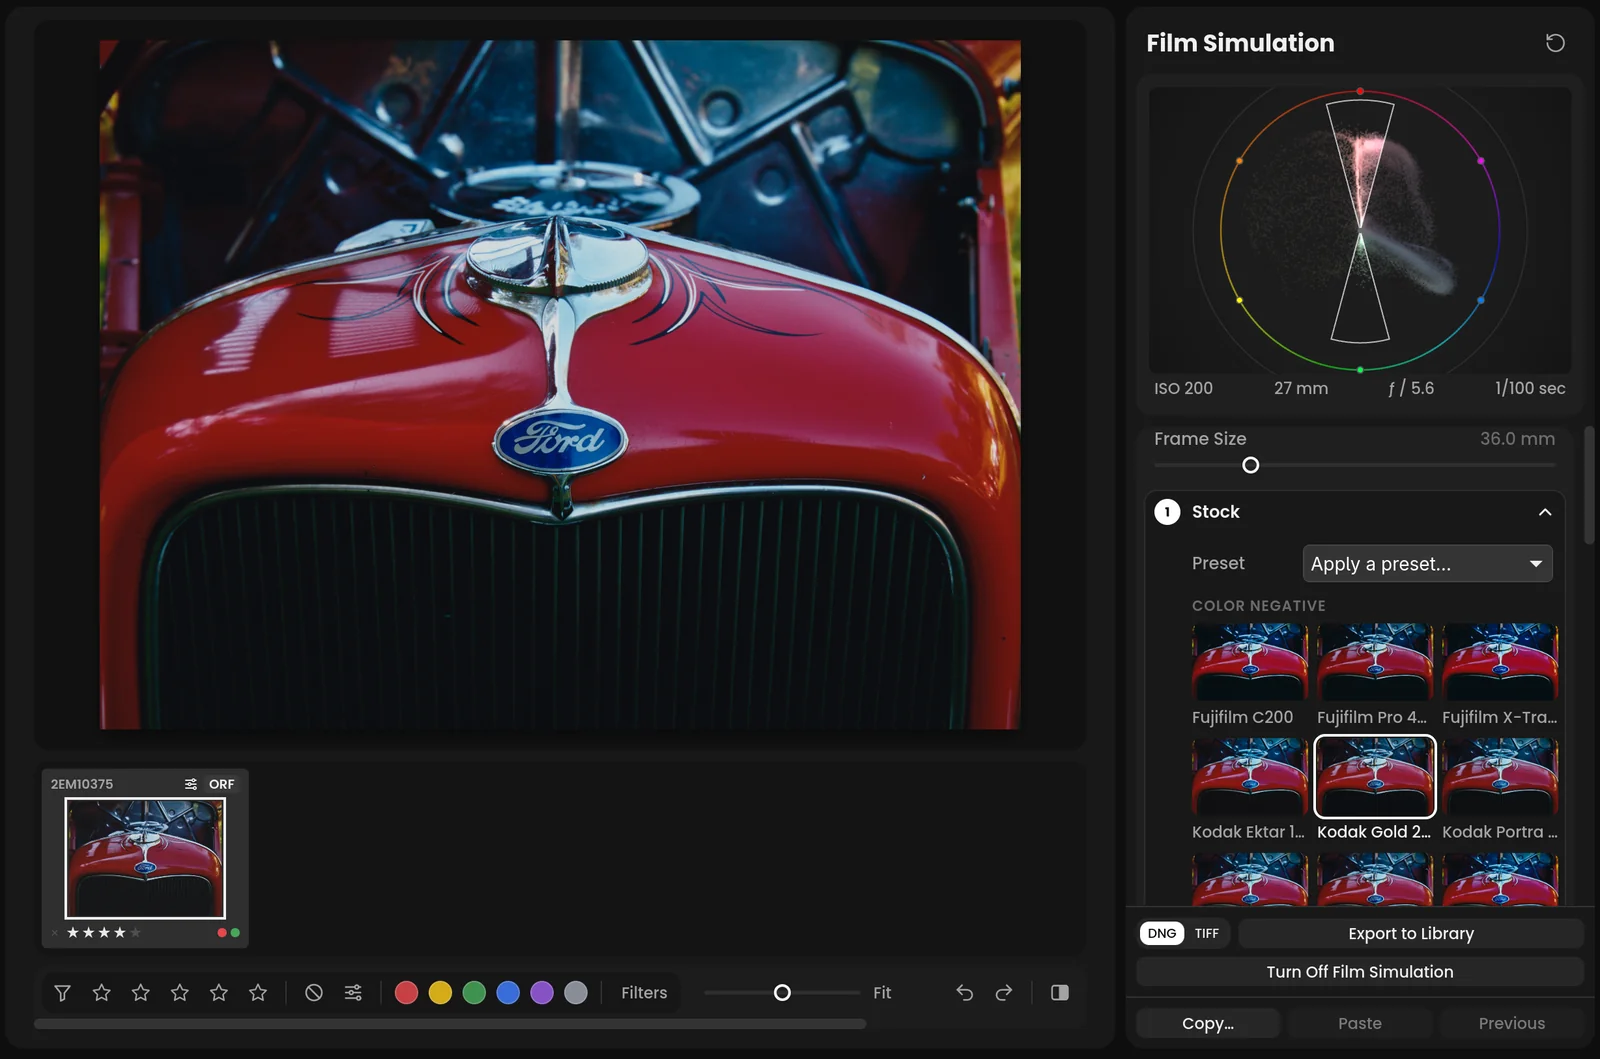
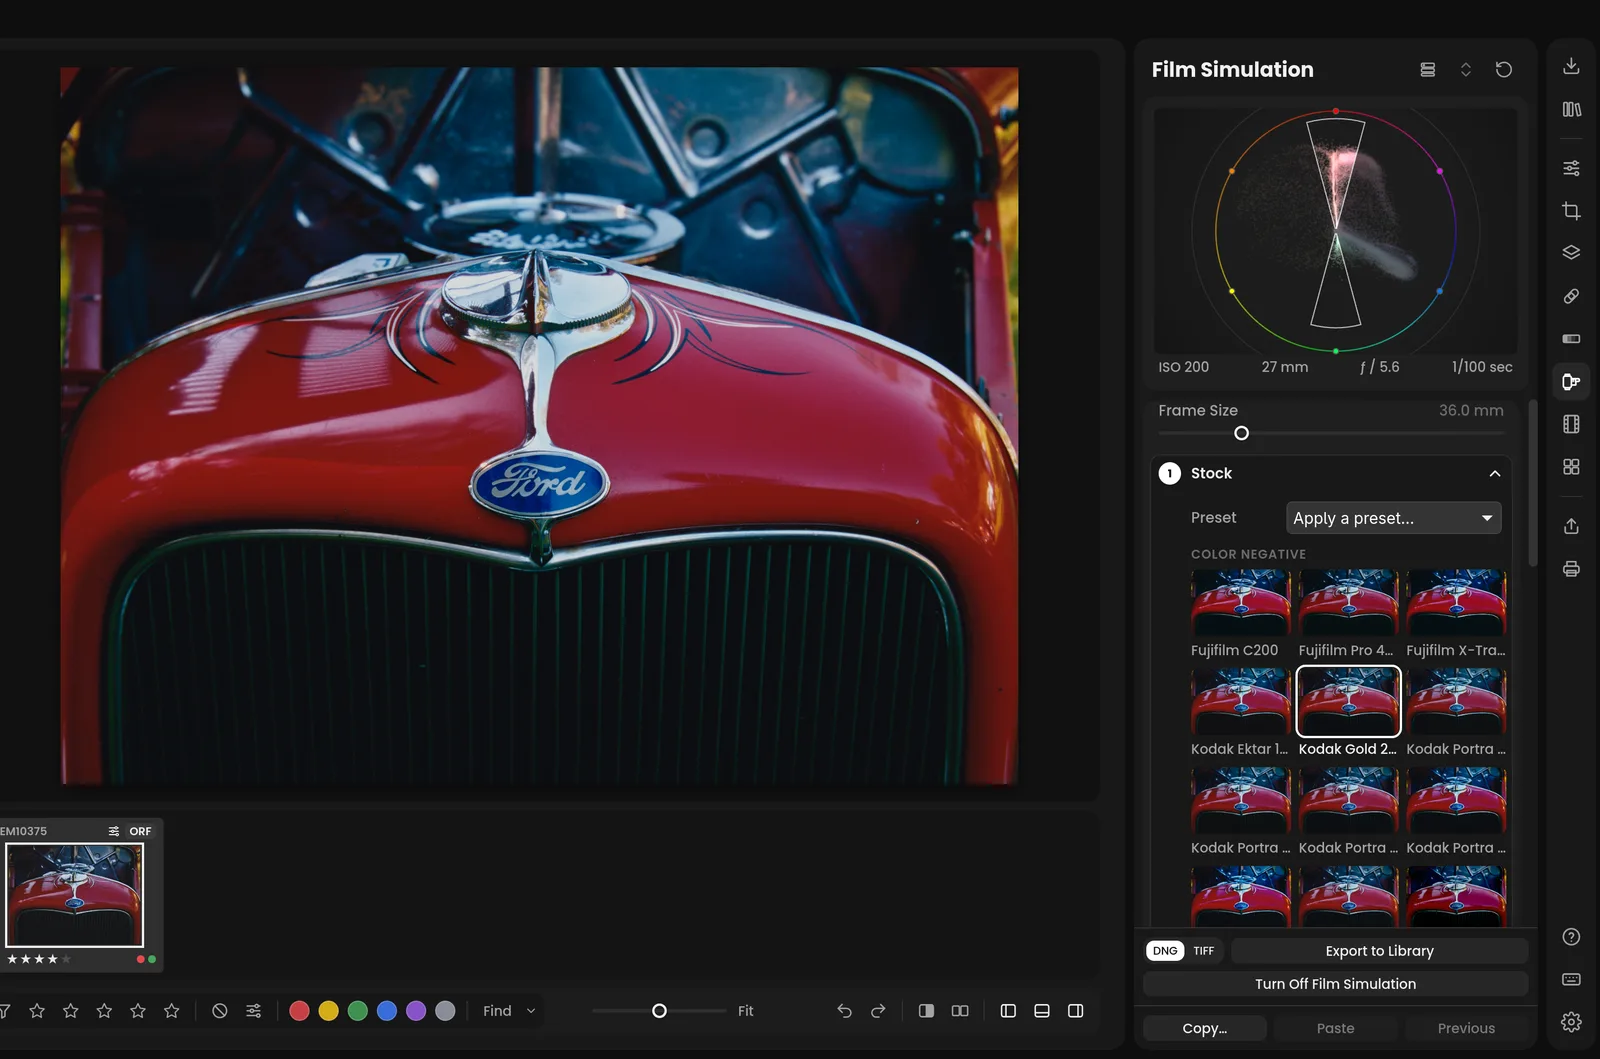
Update the site for 0.46.0
Adds Find as a feature, with a shot of Find in the column beside the
grid, and retakes the feature stills, the Basic before/after pair and
the hero on 0.46.0, which replaces the toolbar Grid button with the
Library button and shows Find's new title row.

diff --git a/src/lib/features.ts b/src/lib/features.ts
@@ -101,6 +101,24 @@ export const features: Feature[] = [
     points: [],
   },
   {
+    id: "find",
+    guide: "library#find",
+    title: "Find any photo",
+    lede: "Search and filter in one place: by what is in the photo, by file name, or by rating, camera, lens, keywords, exposure and date.",
+    points: [
+      "Smart search finds photos by what they show, in this folder or all of them.",
+      "Filters show as chips; each list counts only the photos your other choices leave.",
+      "Tell bodies of the same model apart by serial number.",
+      "Save a filter and open it again with Alt+1 to Alt+9.",
+    ],
+    media: {
+      src: "media/find.webp",
+      alt: "Find in the column beside the grid, with 3 stars and up and RAW as filter chips, leaving four photos of the red vintage Ford",
+      width: 1600,
+      height: 1059,
+    },
+  },
+  {
     id: "looks",
     guide: "presets-and-looks",
     title: "Presets and 53 film looks",
